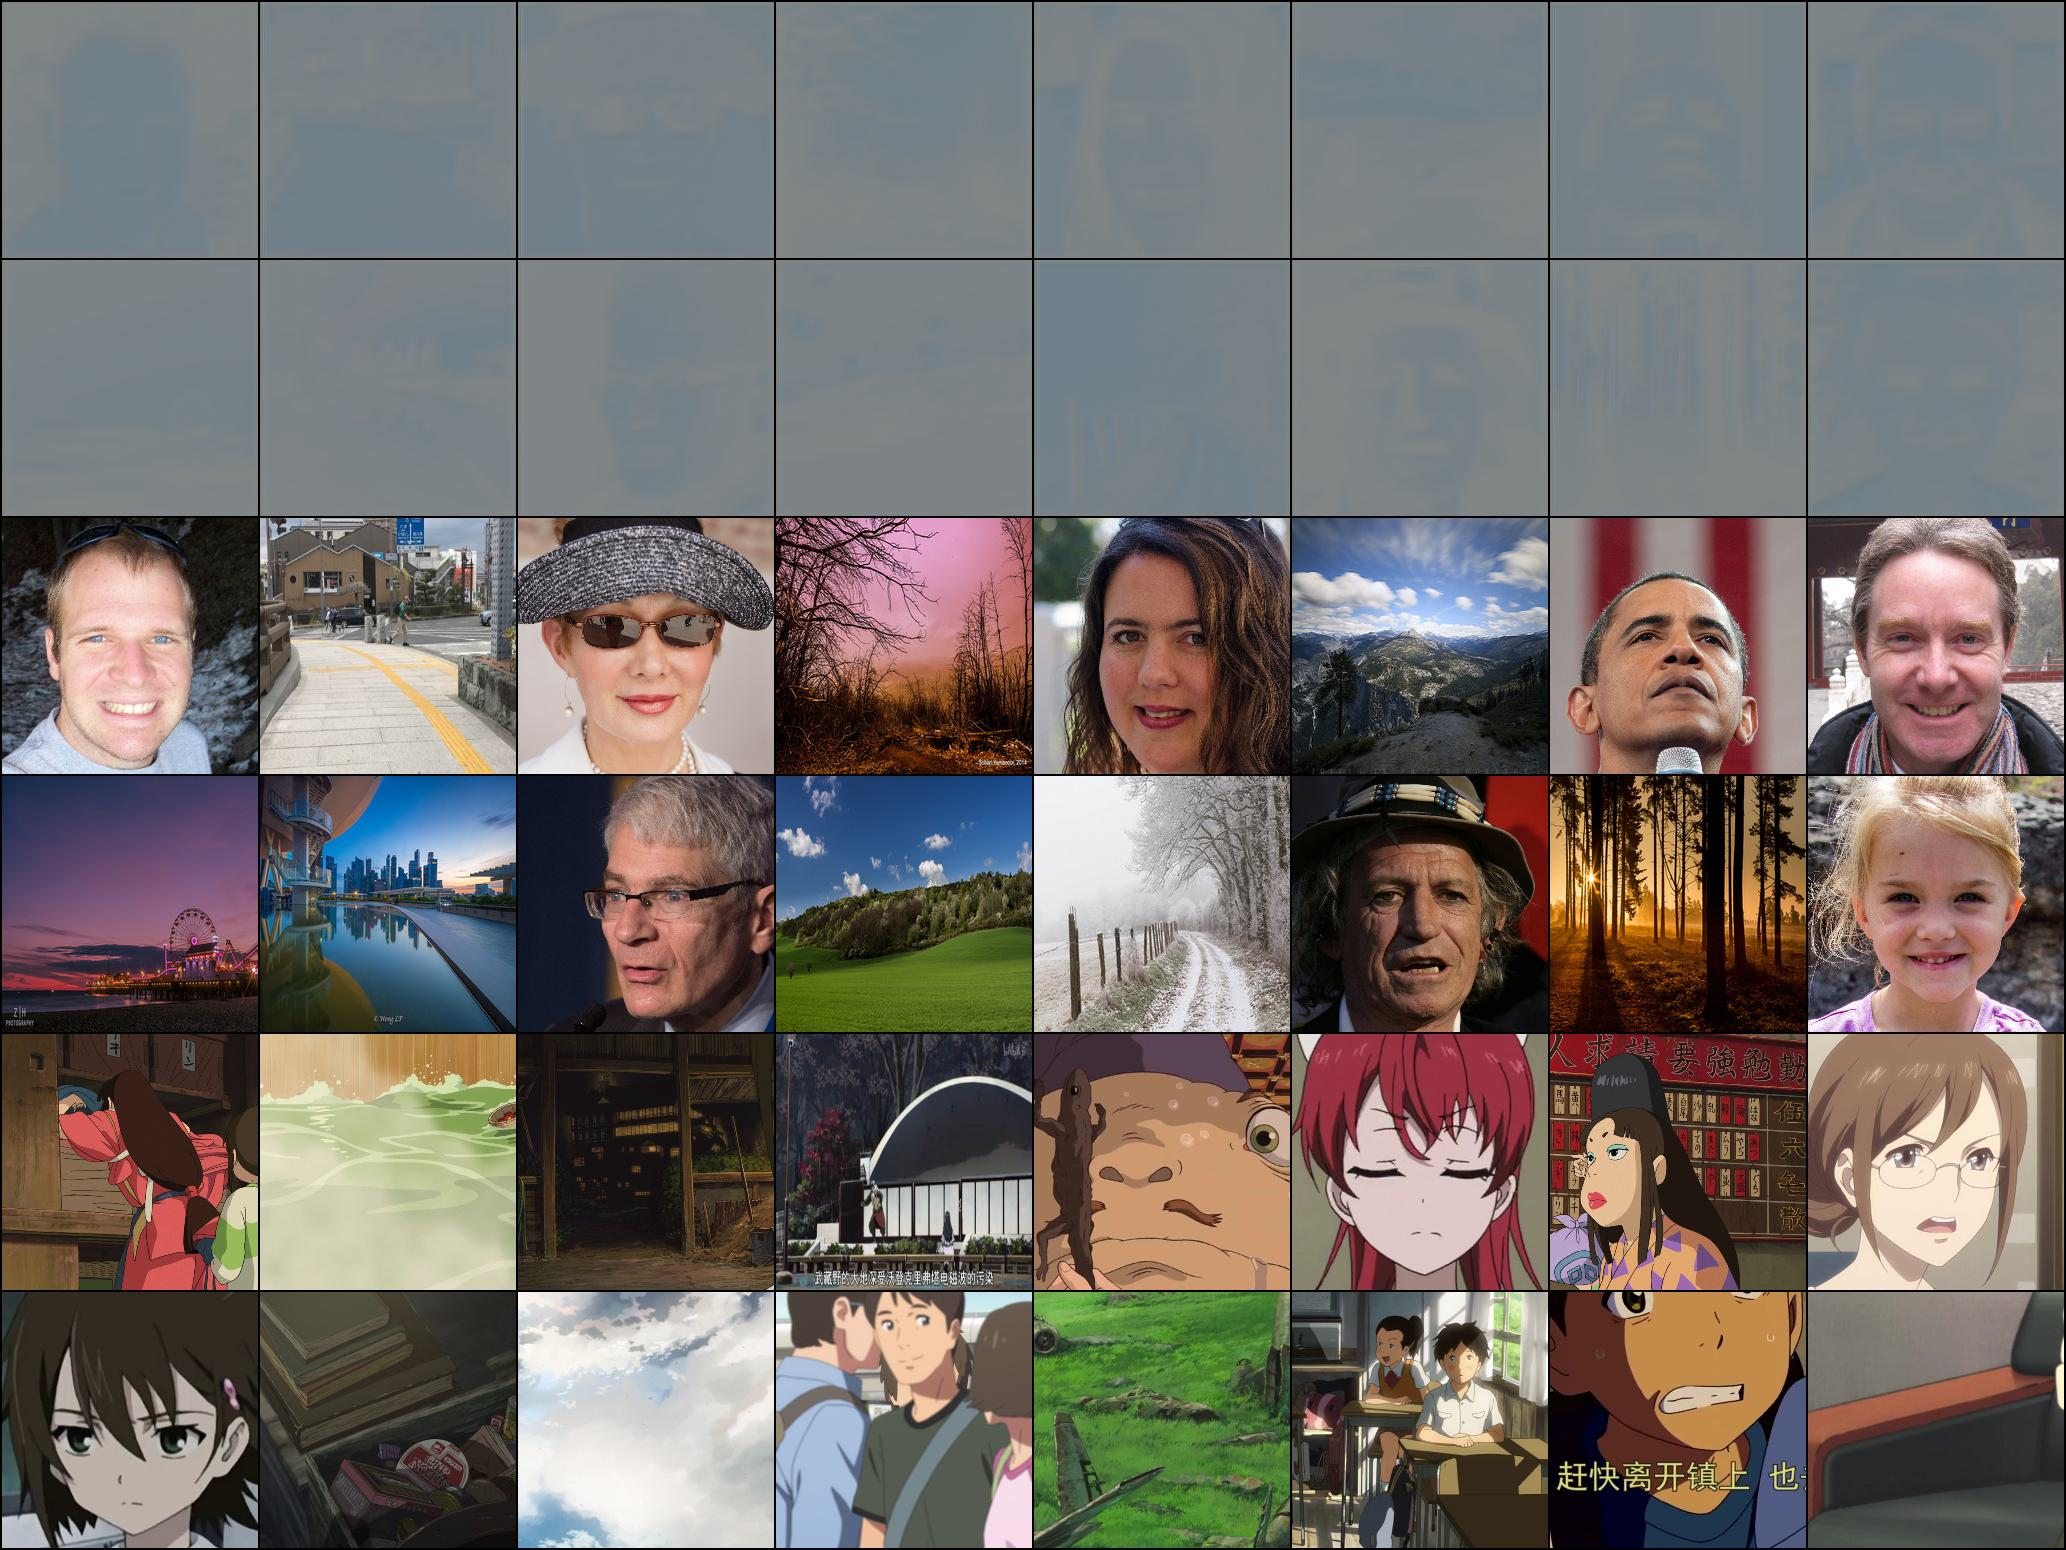
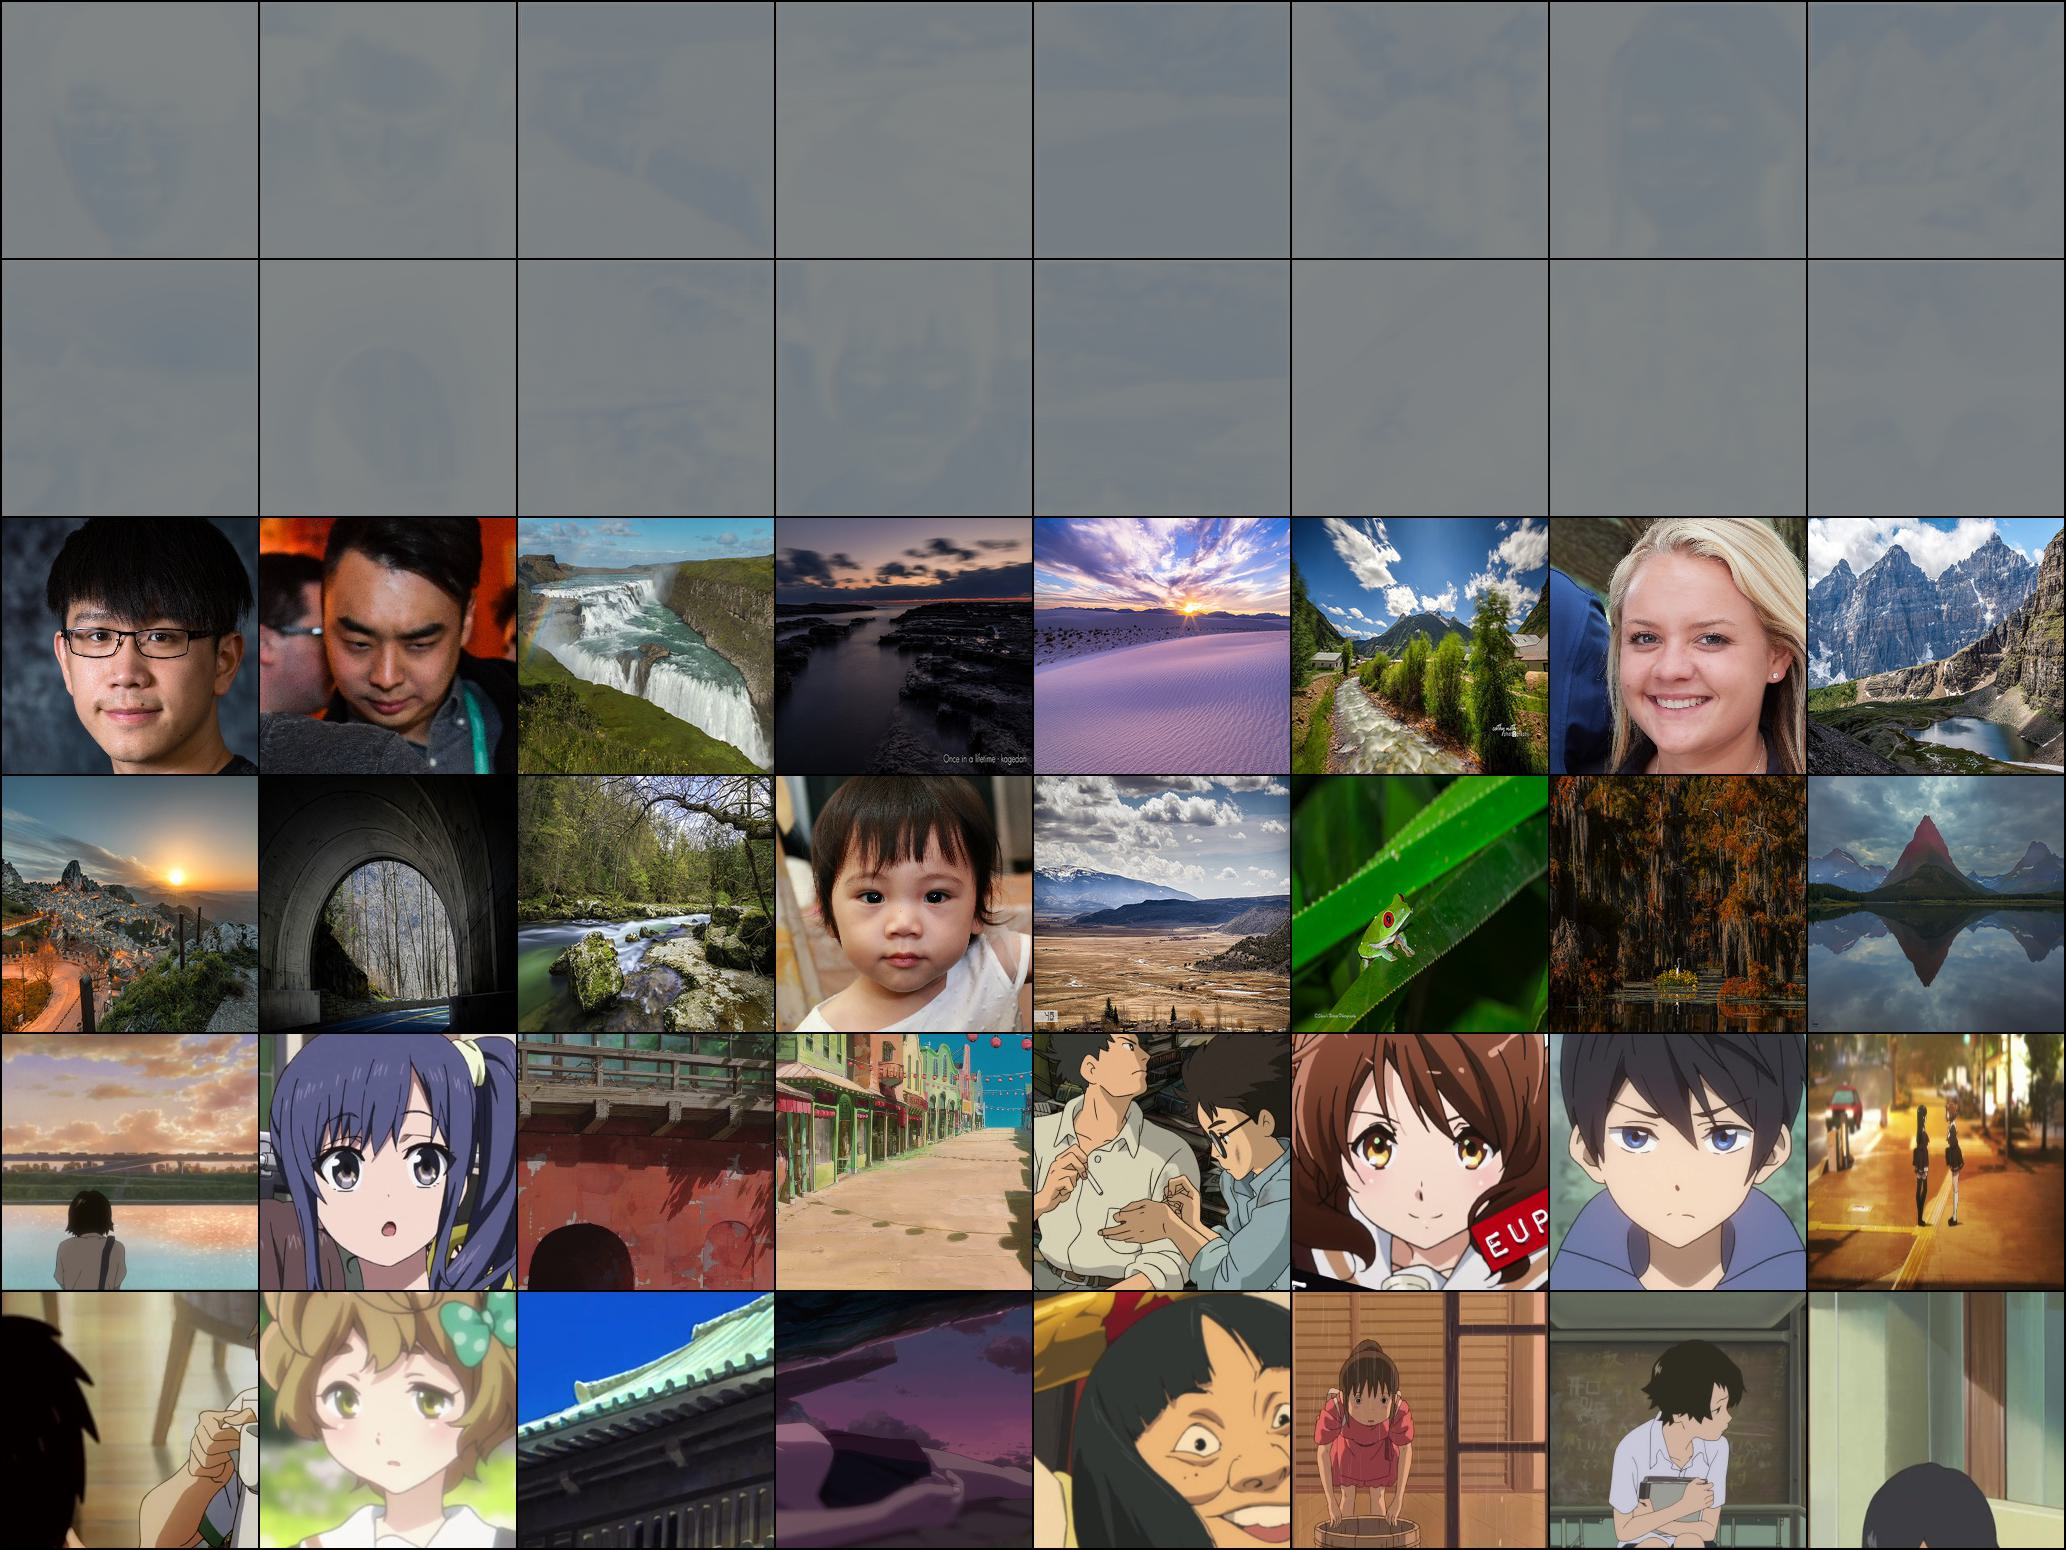
fix

diff --git a/train.py b/train.py
@@ -44,51 +44,51 @@ def train(generator: Generator, surface_disc: Discriminator, texture_disc: Discr
     total = max(len(cartoon_train_dl), len(real_train_dl))
 
     which = True
-
-    generator_optimizer.zero_grad()
-    surface_disc_optimizer.zero_grad()
-    texture_disc_optimizer.zero_grad()
+    surface_d = None
+    texture_d = None
+    generate_loss = None
 
     for epoch in range(conf["epoch"]):
         pbar = tqdm(total=total)
         for batch, (cartoon, real) in enumerate(zip(cartoon_train_dl, real_train_dl)):
             cartoon, real = cartoon[0].to(device), real[0].to(device)
 
-            pred = generator(real)
+            if which:
+                pred = generator(real)
 
-            surface_g, surface_d = surface_loss(pred, cartoon)
+                surface_g, surface_d = surface_loss(pred, cartoon)
 
-            surface_disc_optimizer.zero_grad()
-            surface_d.backward(retain_graph=True)
-            surface_disc_optimizer.step()
+                surface_disc_optimizer.zero_grad()
+                surface_d.backward(retain_graph=True)
+                surface_disc_optimizer.step()
 
-            pred = generator(real)
+                pred = generator(real)
 
-            texture_g, texture_d = texture_loss(pred, cartoon)
+                texture_g, texture_d = texture_loss(pred, cartoon)
 
-            texture_disc_optimizer.zero_grad()
-            texture_d.backward()
-            texture_disc_optimizer.step()
+                texture_disc_optimizer.zero_grad()
+                texture_d.backward()
+                texture_disc_optimizer.step()
+            else:
+                pred = generator(real)
+                pred_vgg = VGG(pred)
+                real_vgg = VGG(real)
 
-            pred = generator(real)
-            pred_vgg = VGG(pred)
-            real_vgg = VGG(real)
+                surface_g, surface_d = surface_loss(pred, cartoon)
+                texture_g, texture_d = texture_loss(pred, cartoon)
 
-            surface_g, surface_d = surface_loss(pred, cartoon)
-            texture_g, texture_d = texture_loss(pred, cartoon)
+                sl = structure_loss(pred, pred_vgg)*conf["W_structure"]
+                cl = content_loss(pred, real, pred_vgg,
+                                  real_vgg)*conf["W_content"]
+                tl = tv_loss(pred)*conf["W_tv"]
+                sg = surface_g*conf["W_surface"]
+                tg = texture_g*conf["W_texture"]
 
-            sl = structure_loss(pred, pred_vgg)*conf["W_structure"]
-            cl = content_loss(pred, real, pred_vgg,
-                              real_vgg)*conf["W_content"]
-            tl = tv_loss(pred)*conf["W_tv"]
-            sg = surface_g*conf["W_surface"]
-            tg = texture_g*conf["W_texture"]
+                generate_loss = sl + cl + tl + sg + tg
 
-            generate_loss = sl + cl + tl + sg + tg
-
-            generator_optimizer.zero_grad()
-            generate_loss.backward()
-            generator_optimizer.step()
+                generator_optimizer.zero_grad()
+                generate_loss.backward()
+                generator_optimizer.step()
 
             # if batch % conf["grad_batch"] == 0:
             # generator_optimizer.step()
@@ -100,10 +100,10 @@ def train(generator: Generator, surface_disc: Discriminator, texture_disc: Discr
 
             pbar.update(1)
 
-            if batch % 3 == 0:
+            if batch % 10 == 0:
                 which = not which
 
-            if batch % 10 == 0:
+            if batch % 20 == 0 and not which:
                 loss_g = generate_loss.item()
                 loss_d = surface_d.item()+texture_d.item()
                 print(

diff --git a/util/loss.py b/util/loss.py
@@ -62,7 +62,7 @@ class L_tv(nn.Module):
         dx = pred[:, :, 1:, :]-pred[:, :, :-1, :]
         dy = pred[:, :, :, 1:]-pred[:, :, :, :-1]
 
-        loss = (torch.mean(dx)+torch.mean(dy))/(C*H*W)
+        loss = torch.abs((torch.mean(dx)+torch.mean(dy))/(C*H*W))
 
         return loss
 

diff --git a/conf.py b/conf.py
@@ -1,8 +1,8 @@
 conf = {
-    "W_surface": 50,
-    "W_texture": 100,
-    "W_structure": 500,
-    "W_content": 500,
+    "W_surface": 0.1,
+    "W_texture": 1,
+    "W_structure": 200,
+    "W_content": 1000,
     "W_tv": 5000,
     "W_motion": 0.1,
 
